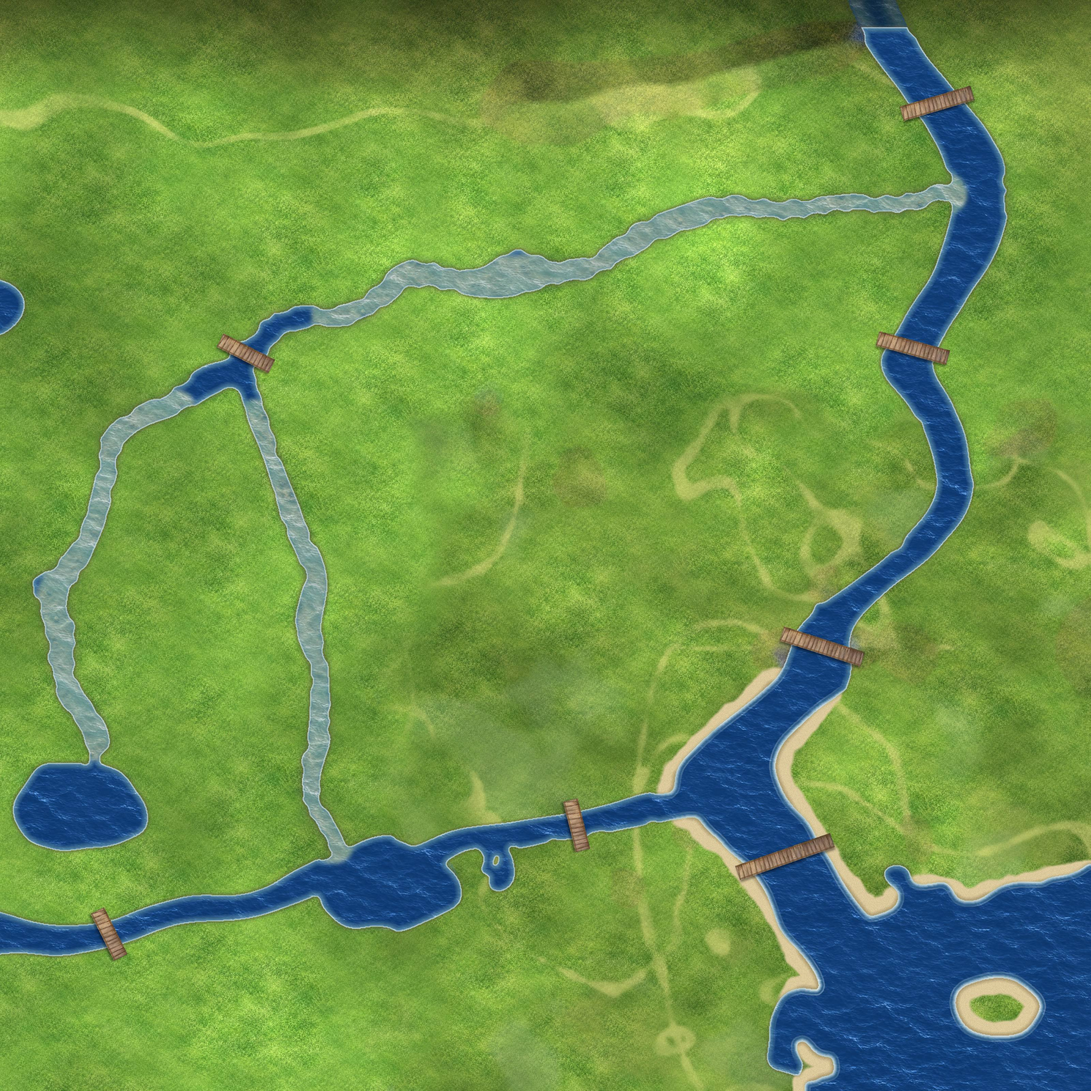
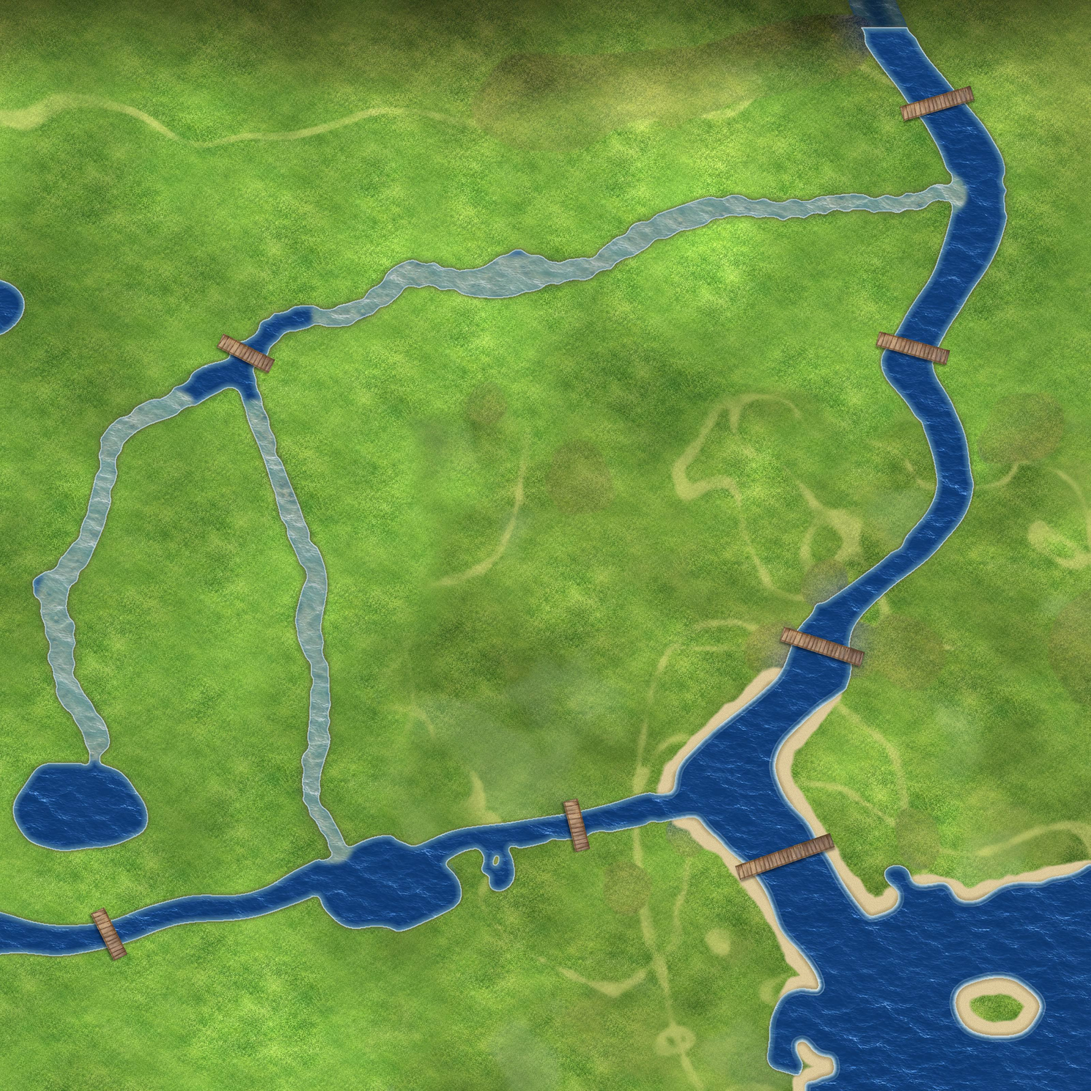
删水处压平无条纹；删除所有踏脚石
Claude-Session: https://claude.ai/code/session_011WrGna6yNwTfpmyp4CxMHs

diff --git a/tools/rebuild_nature.py b/tools/rebuild_nature.py
@@ -39,8 +39,8 @@ def polym(c):
     return m>0
 REDM=polym('#ff3040'); fixm=polym('#9040ff')|polym('#20d060'); dryM=polym('#20d060')
 if fixm.any():
-    sm=cv2.resize(G,(W,H),interpolation=cv2.INTER_AREA); mk=dil(fixm,4).astype(np.uint8)
-    rep_=cv2.inpaint(sm,mk,12,cv2.INPAINT_TELEA); big_=cv2.resize(rep_,(W*HD,H*HD),interpolation=cv2.INTER_LINEAR)
+    sm=cv2.resize(G,(W,H),interpolation=cv2.INTER_AREA); mk=dil(fixm,14).astype(np.uint8)
+    rep_=cv2.inpaint(sm,mk,12,cv2.INPAINT_TELEA); rep_=np.where(mk[...,None]>0,cv2.blur(rep_,(61,61)),rep_); big_=cv2.resize(rep_,(W*HD,H*HD),interpolation=cv2.INTER_LINEAR)
     gr_=np.array(Image.open(ROOT+'/art_src/map/grass.png').convert('RGB')).astype(np.float32); gt=cv2.resize(gr_,(900,900))
     tex_=gt[np.arange(H*HD)[:,None]%900,np.arange(W*HD)[None,:]%900]; tl=tex_-tex_.mean((0,1))
     M2=cv2.GaussianBlur(cv2.resize(mk,(W*HD,H*HD),interpolation=cv2.INTER_NEAREST).astype(np.float32),(0,0),4)[...,None]
@@ -344,7 +344,7 @@ def nearbr(x,y):
         if np.hypot(x-ax-u[0]*t,y-ay-u[1]*t)<26: return True
     return False
 objs=[o for o in objs if not nearbr(o[1],o[2])]
-for x,y in fords: put('st%d'%rng.integers(1,5),x,y,10)
+pass   # 踏脚石已删除
 WR=[]
 ry,rx=np.nonzero(big&(din>5)&(din<9)&~dil(ford,30)); nw=0
 for j in rng.permutation(len(rx))[:4000]:
